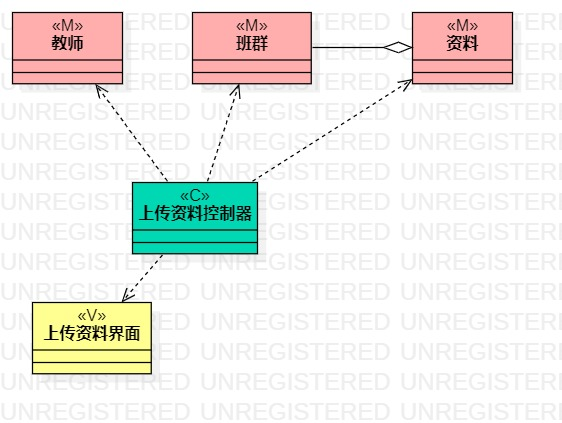
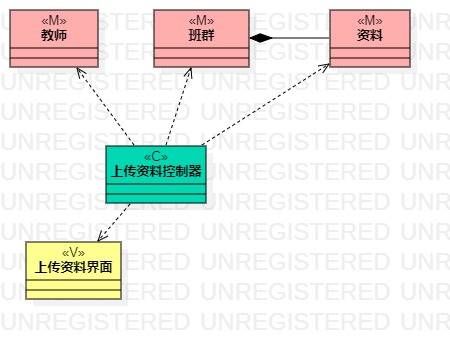
#4 #5 #155 实验4、5

diff --git a/students/1706081301317/lab4&5.md b/students/1706081301317/lab4&5.md
@@ -25,4 +25,38 @@
 ![上传资料类图(./lab4&5_1.jpg)
 图1 上传资料类图
 ![查找资料类图](./lab4&5_2.jpg)
-图2 查找资料类图
+图2 查找资料类图、
+## 五、学习笔记
+类的概念：1.有标识 2.事物的类型、真实存在 3。有属性（状态）、操作（行为）
+类的表示矩形 = 名称 + 属性 + 操作
+类可见性：Public Protected Package Private
+虚线箭头：表示该类被另外一个类使用（最弱） 三角形空心箭头：继承(最强) 建模越弱越好=>减少耦合
+MVC: model:模型、实体、数据 view：视图、界面 Control:控制器、Service、通过controller三个才可以互相交互
+上网搜索的资料:
+ 1. 泛化（Generalization）
+        【泛化关系】：是一种继承关系，表示一般与特殊的关系，它指定了子类如何特化父类的所有特征和行为。例如：老虎是动物的一种，即有老虎的特性也有动物的共性。
+        【箭头指向】：带三角箭头的实线，箭头指向父类
+ 2. 实现（Realization）
+        【实现关系】：是一种类与接口的关系，表示类是接口所有特征和行为的实现.
+        【箭头指向】：带三角箭头的虚线，箭头指向接口
+3. 关联（Association)
+        【关联关系】：是一种拥有的关系，它使一个类知道另一个类的属性和方法；如：老师与学生，丈夫与妻子关联可以是双向的，也可以是单向的。双向的关联可以有两个箭头或者没有箭头，单向的关联有一个箭头。
+        【代码体现】：成员变量
+        【箭头及指向】：带普通箭头的实心线，指向被拥有者
+ 4. 聚合（Aggregation）
+        【聚合关系】：是整体与部分的关系，且部分可以离开整体而单独存在。如车和轮胎是整体和部分的关系，轮胎离开车仍然可以存在。
+        聚合关系是关联关系的一种，是强的关联关系；关联和聚合在语法上无法区分，必须考察具体的逻辑关系。
+        【代码体现】：成员变量
+        【箭头及指向】：带空心菱形的实心线，菱形指向整体
+ 5. 组合(Composition)
+        【组合关系】：是整体与部分的关系，但部分不能离开整体而单独存在。如公司和部门是整体和部分的关系，没有公司就不存在部门。
+        合关系是关联关系的一种，是比聚合关系还要强的关系，它要求普通的聚合关系中代表整体的对象负责代表部分的对象的生命周期。
+		【代码体现】：成员变量
+		【箭头及指向】：带实心菱形的实线，菱形指向整体
+6. 依赖(Dependency)
+        【依赖关系】：是一种使用的关系，即一个类的实现需要另一个类的协助，所以要尽量不使用双向的互相依赖.
+        【代码表现】：局部变量、方法的参数或者对静态方法的调用
+        【箭头及指向】：带箭头的虚线，指向被使用者
+		各种关系的强弱顺序：
+
+        泛化 = 实现 > 组合 > 聚合 > 关联 > 依赖 

diff --git a/students/1706081301317/lab3.md b/students/1706081301317/lab3.md
@@ -13,9 +13,4 @@
 ## 四、实验结果
 ![上传资料的用例活动图](./lab3_1.jpg)  
  ![查找资料的用例活动图](./lab3_2.jpg)  
-## 五、学习笔记
-类的概念：1.有标识 2.事物的类型、真实存在 3。有属性（状态）、操作（行为）
-类的表示矩形 = 名称 + 属性 + 操作
-类可见性：Public Protected Package Private
-虚线箭头：表示该类被另外一个类使用（最弱） 三角形空心箭头：继承(最强) 建模越弱越好=>减少耦合
-MVC: model:模型、实体、数据 view：视图、界面 Control:控制器、Service、通过controller三个才可以互相交互
+
